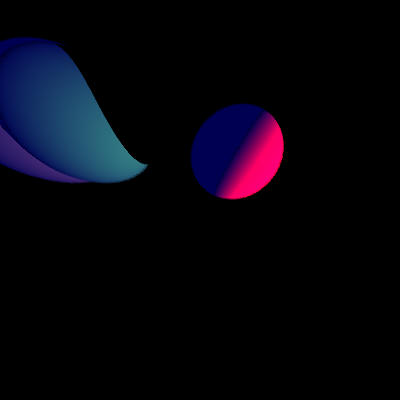
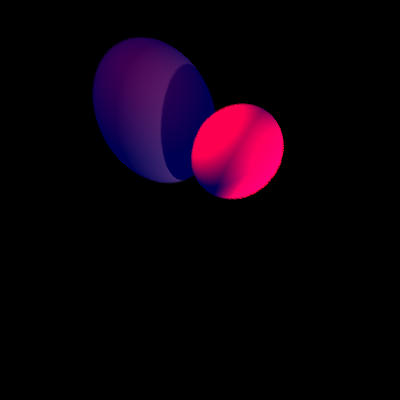
Let there be shadow!

Changed region(s): [[0.0, 0.09, 0.69, 0.48], [0.69, 0.36, 0.72, 0.42], [0.6, 0.48, 0.63, 0.51]]

diff --git a/src/main.rs b/src/main.rs
@@ -44,10 +44,10 @@ fn main()
                                            Vector3::new(12.0, 20.0, 15.0),
                                            Colorf::new(0.0, 1.0, 0.0))));
     let mut sphereB = Arc::new(Mutex::new(Sphere::new(15.0,
-                                           Vector3::new(60.0, 10.0, 20.0),
+                                           Vector3::new(30.0, 10.0, 20.0),
                                            Colorf::new(1.0, 0.0, 0.0))));
-    let mut sphereC = Arc::new(Mutex::new(Sphere::new(15.0,
-                                                      Vector3::new(50.0, 10.0, 20.0),
+    let mut sphereC = Arc::new(Mutex::new(Sphere::new(5.0,
+                                                      Vector3::new(30.0, 10.0, 10.0),
                                                       Colorf::new(0.0, 1.0, 1.0))));
     world.add_object(sphereA);
     world.add_object(sphereB);
@@ -92,9 +92,11 @@ fn setUpMaterial(r: f32, g: f32, b: f32) -> Phong
 fn setUpLights(world: &mut World)
 {
     let point = PointLight::new(0.5, COLOR_WHITE, Vector3::new(-50.0, 60.0, 0.0));
+    let point2 = PointLight::new(0.3, COLOR_RED, Vector3::new(30.0, 10.0, -5.0));
     let mut ambient = Ambient::new(COLOR_BLUE);
     ambient.set_radiance_scaling_factor(0.1);
     world.add_light(Arc::new(point));
+    world.add_light(Arc::new(point2));
     world.set_ambient(Arc::new(ambient));
 }
 

diff --git a/src/material/phong.rs b/src/material/phong.rs
@@ -47,11 +47,12 @@ impl Material for Phong
                     in_shadow = worldptr.m_lights[i].is_in_shadow(sr, &shadow_ray);
                 }
 
-                if in_shadow { return COLOR_BLACK }
-
-                clr += (self.m_diffuse_brdf.func(sr, w_i, w_o) +
+                if !in_shadow
+                {
+                    clr += (self.m_diffuse_brdf.func(sr, w_i, w_o) +
                         self.m_spec_brdf.func(sr, w_i, w_o)) *
                         worldptr.m_lights[i].L(sr)  * n_dot_w_i;
+                }
             }
         }
         clr

diff --git a/src/geometry/sphere.rs b/src/geometry/sphere.rs
@@ -116,7 +116,7 @@ impl Shadable for Sphere
                 if *time > KEPSILON
                 {
                     *tmin = *time;
-                    println!("shadow hit!")
+                    println!("shadow hit!");
                     return true;
                 }
             }
